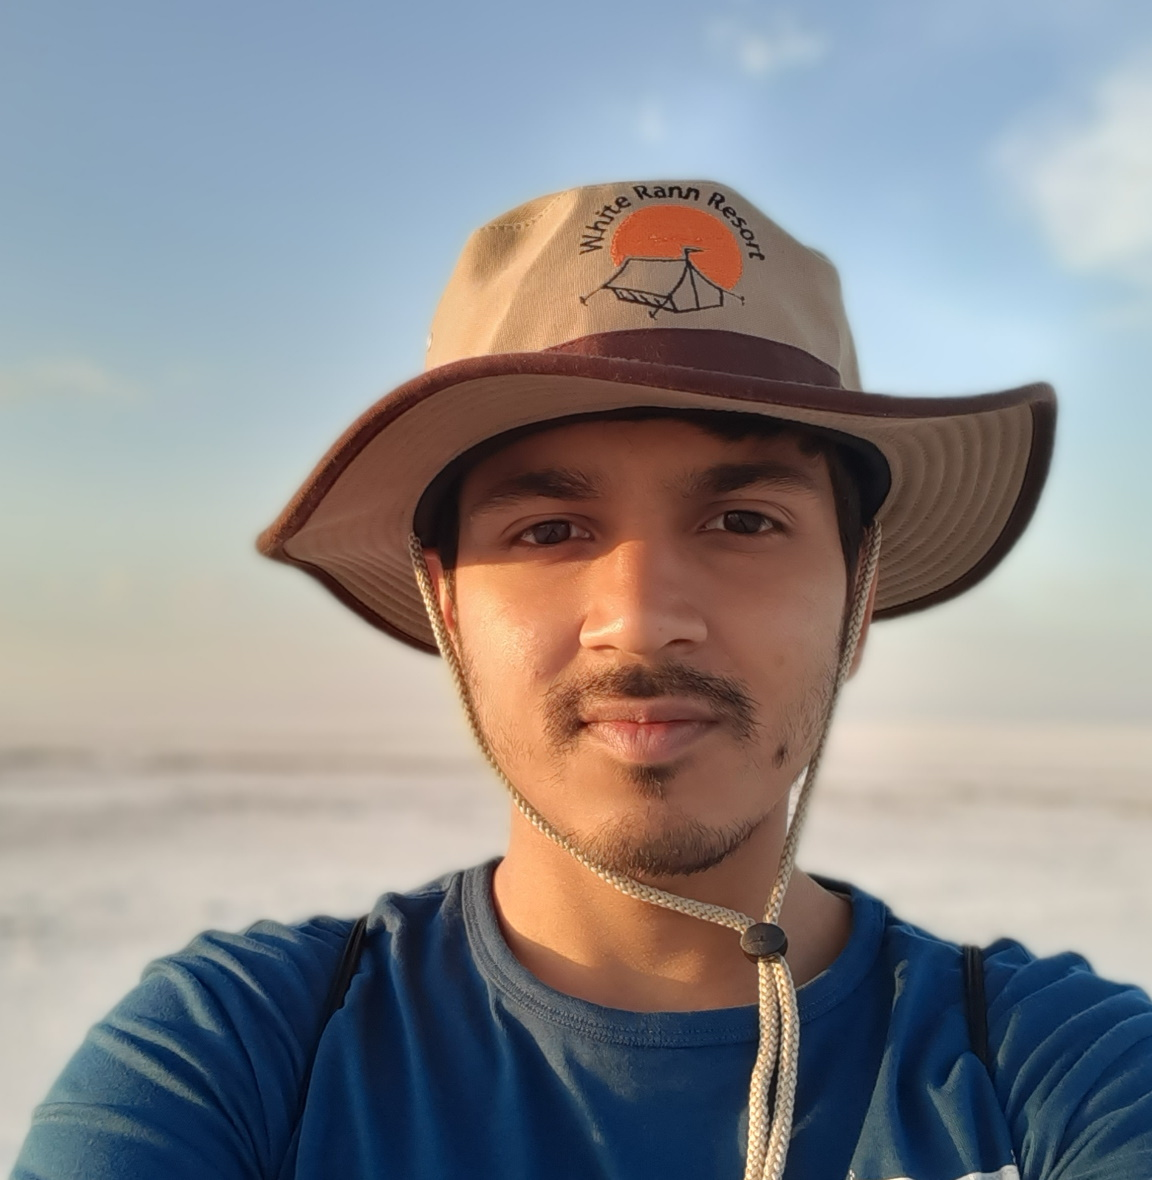
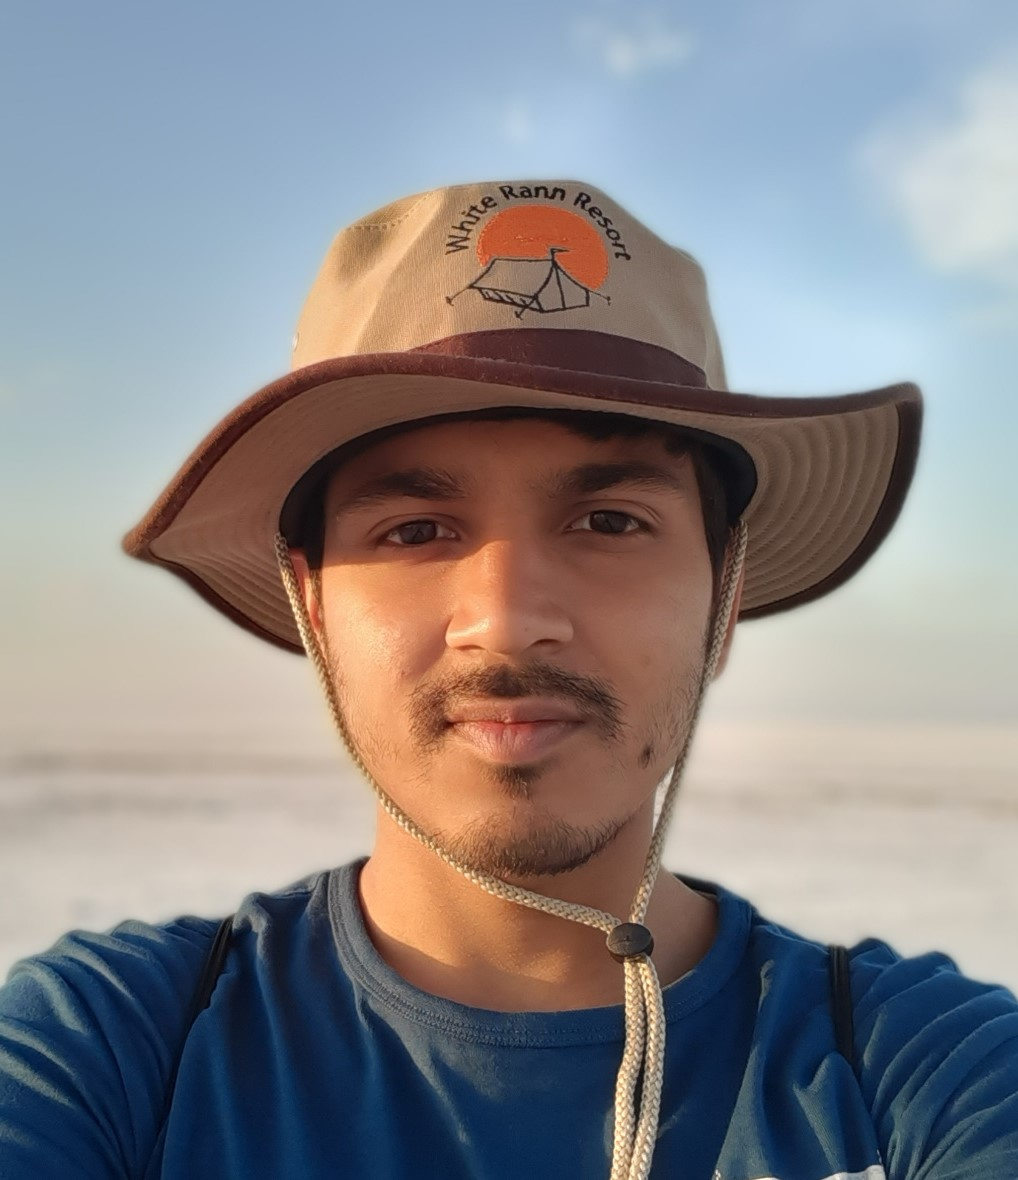
update profile p

diff --git a/author/aman-bagrecha/index.html b/author/aman-bagrecha/index.html
@@ -343,8 +343,8 @@
   <meta property="og:site_name" content="Aman Bagrecha" />
   <meta property="og:url" content="https://amanbagrecha.github.io/author/aman-bagrecha/" />
   <meta property="og:title" content="Aman Bagrecha | Aman Bagrecha" />
-  <meta property="og:description" content="GIS, Remote Sensing and Machine Learning" /><meta property="og:image" content="https://amanbagrecha.github.io/author/aman-bagrecha/avatar_hu048bc85fc3c3eaed5e0c65d2a9fe95f8_259557_270x270_fill_q75_lanczos_center.jpg" />
-    <meta property="twitter:image" content="https://amanbagrecha.github.io/author/aman-bagrecha/avatar_hu048bc85fc3c3eaed5e0c65d2a9fe95f8_259557_270x270_fill_q75_lanczos_center.jpg" /><meta property="og:locale" content="en-us" />
+  <meta property="og:description" content="GIS, Remote Sensing and Machine Learning" /><meta property="og:image" content="https://amanbagrecha.github.io/author/aman-bagrecha/avatar_hud78ccb551246703308ae2b0894b85172_148642_270x270_fill_q75_lanczos_center.jpg" />
+    <meta property="twitter:image" content="https://amanbagrecha.github.io/author/aman-bagrecha/avatar_hud78ccb551246703308ae2b0894b85172_148642_270x270_fill_q75_lanczos_center.jpg" /><meta property="og:locale" content="en-us" />
   
     
       <meta property="og:updated_time" content="2021-12-03T00:00:00&#43;00:00" />
@@ -762,7 +762,8 @@
     <div id="profile">
 
       
-      <img class="avatar avatar-circle" src="https://s.gravatar.com/avatar/643d1b0bcb1f06ba47f9a36b1ec145ee?s=270')" alt="Aman Bagrecha">
+      
+      <img class="avatar avatar-square" src="/author/aman-bagrecha/avatar_hud78ccb551246703308ae2b0894b85172_148642_270x270_fill_q75_lanczos_center.jpg" alt="Aman Bagrecha">
       
 
       <div class="portrait-title">

diff --git a/post/geoserver/geoserver-query-builder/index.html b/post/geoserver/geoserver-query-builder/index.html
@@ -1220,7 +1220,8 @@ If the fetch call could not find the match it returns an error which is caught b
   
   <div class="media author-card content-widget-hr">
     
-      <a href="https://amanbagrecha.github.io/"><img class="avatar mr-3 avatar-circle" src="https://s.gravatar.com/avatar/643d1b0bcb1f06ba47f9a36b1ec145ee?s=200" alt="Aman Bagrecha"></a>
+      
+      <a href="https://amanbagrecha.github.io/"><img class="avatar mr-3 avatar-square" src="/author/aman-bagrecha/avatar_hud78ccb551246703308ae2b0894b85172_148642_270x270_fill_q75_lanczos_center.jpg" alt="Aman Bagrecha"></a>
     
 
     <div class="media-body">

diff --git a/post/qgis/how-hard-can-it-be-to-create-30-maps/index.html b/post/qgis/how-hard-can-it-be-to-create-30-maps/index.html
@@ -1032,7 +1032,8 @@ Day16: <a href="https://twitter.com/aman_bagrecha/status/1592953349523271680" ta
   
   <div class="media author-card content-widget-hr">
     
-      <a href="https://amanbagrecha.github.io/"><img class="avatar mr-3 avatar-circle" src="https://s.gravatar.com/avatar/643d1b0bcb1f06ba47f9a36b1ec145ee?s=200" alt="Aman Bagrecha"></a>
+      
+      <a href="https://amanbagrecha.github.io/"><img class="avatar mr-3 avatar-square" src="/author/aman-bagrecha/avatar_hud78ccb551246703308ae2b0894b85172_148642_270x270_fill_q75_lanczos_center.jpg" alt="Aman Bagrecha"></a>
     
 
     <div class="media-body">

diff --git a/post/rs_gis/cogs-as-standin-replacement/index.html b/post/rs_gis/cogs-as-standin-replacement/index.html
@@ -1121,7 +1121,8 @@ Higher the pyramid level you move (zoom in), more detailed information from the 
   
   <div class="media author-card content-widget-hr">
     
-      <a href="https://amanbagrecha.github.io/"><img class="avatar mr-3 avatar-circle" src="https://s.gravatar.com/avatar/643d1b0bcb1f06ba47f9a36b1ec145ee?s=200" alt="Aman Bagrecha"></a>
+      
+      <a href="https://amanbagrecha.github.io/"><img class="avatar mr-3 avatar-square" src="/author/aman-bagrecha/avatar_hud78ccb551246703308ae2b0894b85172_148642_270x270_fill_q75_lanczos_center.jpg" alt="Aman Bagrecha"></a>
     
 
     <div class="media-body">

diff --git a/post/rs_gis/download-modis-data-using-cmr-api-in-python/index.html b/post/rs_gis/download-modis-data-using-cmr-api-in-python/index.html
@@ -1072,7 +1072,8 @@ This short post on downloading MODIS data originated when I wanted to set up and
   
   <div class="media author-card content-widget-hr">
     
-      <a href="https://amanbagrecha.github.io/"><img class="avatar mr-3 avatar-circle" src="https://s.gravatar.com/avatar/643d1b0bcb1f06ba47f9a36b1ec145ee?s=200" alt="Aman Bagrecha"></a>
+      
+      <a href="https://amanbagrecha.github.io/"><img class="avatar mr-3 avatar-square" src="/author/aman-bagrecha/avatar_hud78ccb551246703308ae2b0894b85172_148642_270x270_fill_q75_lanczos_center.jpg" alt="Aman Bagrecha"></a>
     
 
     <div class="media-body">

diff --git a/post/rs_gis/merge-rasters-the-modern-way-using-python/index.html b/post/rs_gis/merge-rasters-the-modern-way-using-python/index.html
@@ -1135,7 +1135,8 @@ copy_min function copies minimum value from overlapping region to the output ras
   
   <div class="media author-card content-widget-hr">
     
-      <a href="https://amanbagrecha.github.io/"><img class="avatar mr-3 avatar-circle" src="https://s.gravatar.com/avatar/643d1b0bcb1f06ba47f9a36b1ec145ee?s=200" alt="Aman Bagrecha"></a>
+      
+      <a href="https://amanbagrecha.github.io/"><img class="avatar mr-3 avatar-square" src="/author/aman-bagrecha/avatar_hud78ccb551246703308ae2b0894b85172_148642_270x270_fill_q75_lanczos_center.jpg" alt="Aman Bagrecha"></a>
     
 
     <div class="media-body">

diff --git a/post/rs_gis/overlay-cropped-raster-with-vector-layer/index.html b/post/rs_gis/overlay-cropped-raster-with-vector-layer/index.html
@@ -1033,7 +1033,8 @@ While there is an <code>extent</code> paramter in matplotlib&rsquo;s plotting fu
   
   <div class="media author-card content-widget-hr">
     
-      <a href="https://amanbagrecha.github.io/"><img class="avatar mr-3 avatar-circle" src="https://s.gravatar.com/avatar/643d1b0bcb1f06ba47f9a36b1ec145ee?s=200" alt="Aman Bagrecha"></a>
+      
+      <a href="https://amanbagrecha.github.io/"><img class="avatar mr-3 avatar-square" src="/author/aman-bagrecha/avatar_hud78ccb551246703308ae2b0894b85172_148642_270x270_fill_q75_lanczos_center.jpg" alt="Aman Bagrecha"></a>
     
 
     <div class="media-body">

diff --git a/post/rs_gis/smap-time-series/index.html b/post/rs_gis/smap-time-series/index.html
@@ -1137,7 +1137,8 @@ One thing to note is, since the product has a resolution of 36 km and that the e
   
   <div class="media author-card content-widget-hr">
     
-      <a href="https://amanbagrecha.github.io/"><img class="avatar mr-3 avatar-circle" src="https://s.gravatar.com/avatar/643d1b0bcb1f06ba47f9a36b1ec145ee?s=200" alt="Aman Bagrecha"></a>
+      
+      <a href="https://amanbagrecha.github.io/"><img class="avatar mr-3 avatar-square" src="/author/aman-bagrecha/avatar_hud78ccb551246703308ae2b0894b85172_148642_270x270_fill_q75_lanczos_center.jpg" alt="Aman Bagrecha"></a>
     
 
     <div class="media-body">

diff --git a/post/rs_gis/vector-tiles-and-docker-using-pg-tilerserv/index.html b/post/rs_gis/vector-tiles-and-docker-using-pg-tilerserv/index.html
@@ -1082,7 +1082,8 @@ docker-compose exec pg_tileserv_db sh -c &quot;shp2pgsql -D -s 4326 /work/ne_50m
   
   <div class="media author-card content-widget-hr">
     
-      <a href="https://amanbagrecha.github.io/"><img class="avatar mr-3 avatar-circle" src="https://s.gravatar.com/avatar/643d1b0bcb1f06ba47f9a36b1ec145ee?s=200" alt="Aman Bagrecha"></a>
+      
+      <a href="https://amanbagrecha.github.io/"><img class="avatar mr-3 avatar-square" src="/author/aman-bagrecha/avatar_hud78ccb551246703308ae2b0894b85172_148642_270x270_fill_q75_lanczos_center.jpg" alt="Aman Bagrecha"></a>
     
 
     <div class="media-body">

diff --git a/post/xarray/cloud-native-composite-subset-and-processing-of-satellite-imagery-with-stac-and-stackstac/index.html b/post/xarray/cloud-native-composite-subset-and-processing-of-satellite-imagery-with-stac-and-stackstac/index.html
@@ -1053,7 +1053,8 @@ Read more about how stackstac works <a href="https://stackstac.readthedocs.io/" 
   
   <div class="media author-card content-widget-hr">
     
-      <a href="https://amanbagrecha.github.io/"><img class="avatar mr-3 avatar-circle" src="https://s.gravatar.com/avatar/643d1b0bcb1f06ba47f9a36b1ec145ee?s=200" alt="Aman Bagrecha"></a>
+      
+      <a href="https://amanbagrecha.github.io/"><img class="avatar mr-3 avatar-square" src="/author/aman-bagrecha/avatar_hud78ccb551246703308ae2b0894b85172_148642_270x270_fill_q75_lanczos_center.jpg" alt="Aman Bagrecha"></a>
     
 
     <div class="media-body">

diff --git a/post/xarray/download-and-preprocess-nasa-gpm-imerg-data-using-python-and-wget/index.html b/post/xarray/download-and-preprocess-nasa-gpm-imerg-data-using-python-and-wget/index.html
@@ -1070,7 +1070,8 @@ It is to be noted that, there is a significant setup required i.e, to create a n
   
   <div class="media author-card content-widget-hr">
     
-      <a href="https://amanbagrecha.github.io/"><img class="avatar mr-3 avatar-circle" src="https://s.gravatar.com/avatar/643d1b0bcb1f06ba47f9a36b1ec145ee?s=200" alt="Aman Bagrecha"></a>
+      
+      <a href="https://amanbagrecha.github.io/"><img class="avatar mr-3 avatar-square" src="/author/aman-bagrecha/avatar_hud78ccb551246703308ae2b0894b85172_148642_270x270_fill_q75_lanczos_center.jpg" alt="Aman Bagrecha"></a>
     
 
     <div class="media-body">

diff --git a/post/rs_gis/polygonize-raster-and-compute-zonal-stats-in-python/index.html b/post/rs_gis/polygonize-raster-and-compute-zonal-stats-in-python/index.html
@@ -1033,7 +1033,8 @@ statistics= zonal_stats(in_shp,image,stats='min, max, mean, median',
   
   <div class="media author-card content-widget-hr">
     
-      <a href="https://amanbagrecha.github.io/"><img class="avatar mr-3 avatar-circle" src="https://s.gravatar.com/avatar/643d1b0bcb1f06ba47f9a36b1ec145ee?s=200" alt="Aman Bagrecha"></a>
+      
+      <a href="https://amanbagrecha.github.io/"><img class="avatar mr-3 avatar-square" src="/author/aman-bagrecha/avatar_hud78ccb551246703308ae2b0894b85172_148642_270x270_fill_q75_lanczos_center.jpg" alt="Aman Bagrecha"></a>
     
 
     <div class="media-body">
